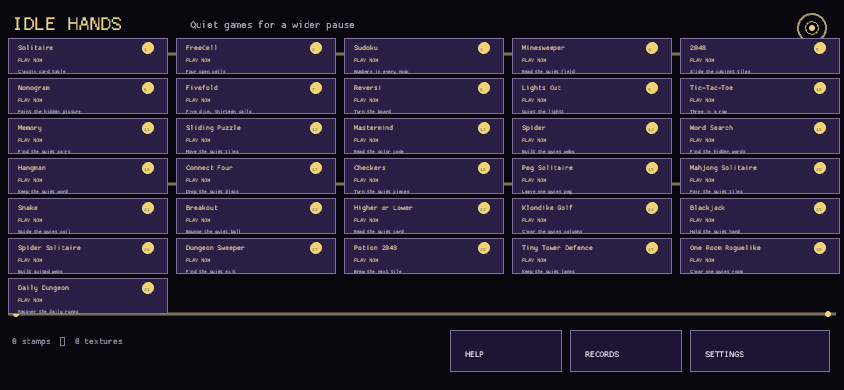
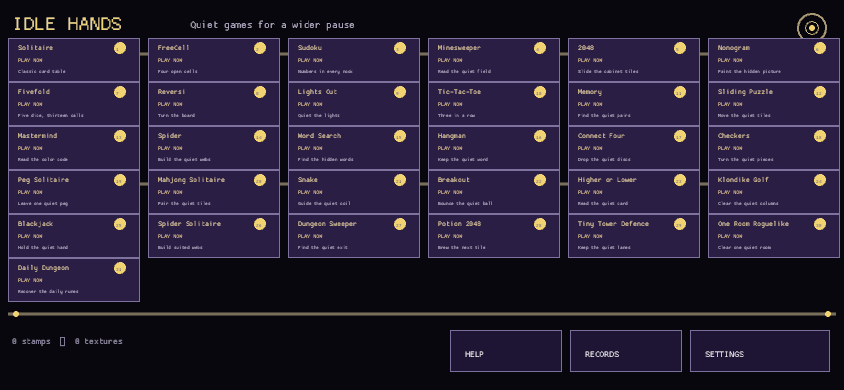
The cabinet shelves widen for every reaching hand (compact touch cards)
Reflows the medium-landscape cabinet from five undersized rows to six columns of 44-point game cards. All 31 playable drawers remain above the footer controls, preserving direct touch access while keeping the existing cabinet hit testing and labels intact.

Changed region(s): [[0.0, 0.0923, 1.0, 0.8308]]

diff --git a/src/responsive_landscape.rs b/src/responsive_landscape.rs
@@ -29,10 +29,10 @@ fn text(value: &str, x: f32, y: f32, size: f32, color: Color) {
 
 fn cabinet_rect(index: usize) -> Rect {
     Rect::new(
-        8. + (index % 5) as f32 * 168.,
-        38. + (index / 5) as f32 * 40.,
-        160.,
-        36.,
+        8. + (index % 6) as f32 * 140.,
+        38. + (index / 6) as f32 * 44.,
+        132.,
+        44.,
     )
 }
 
